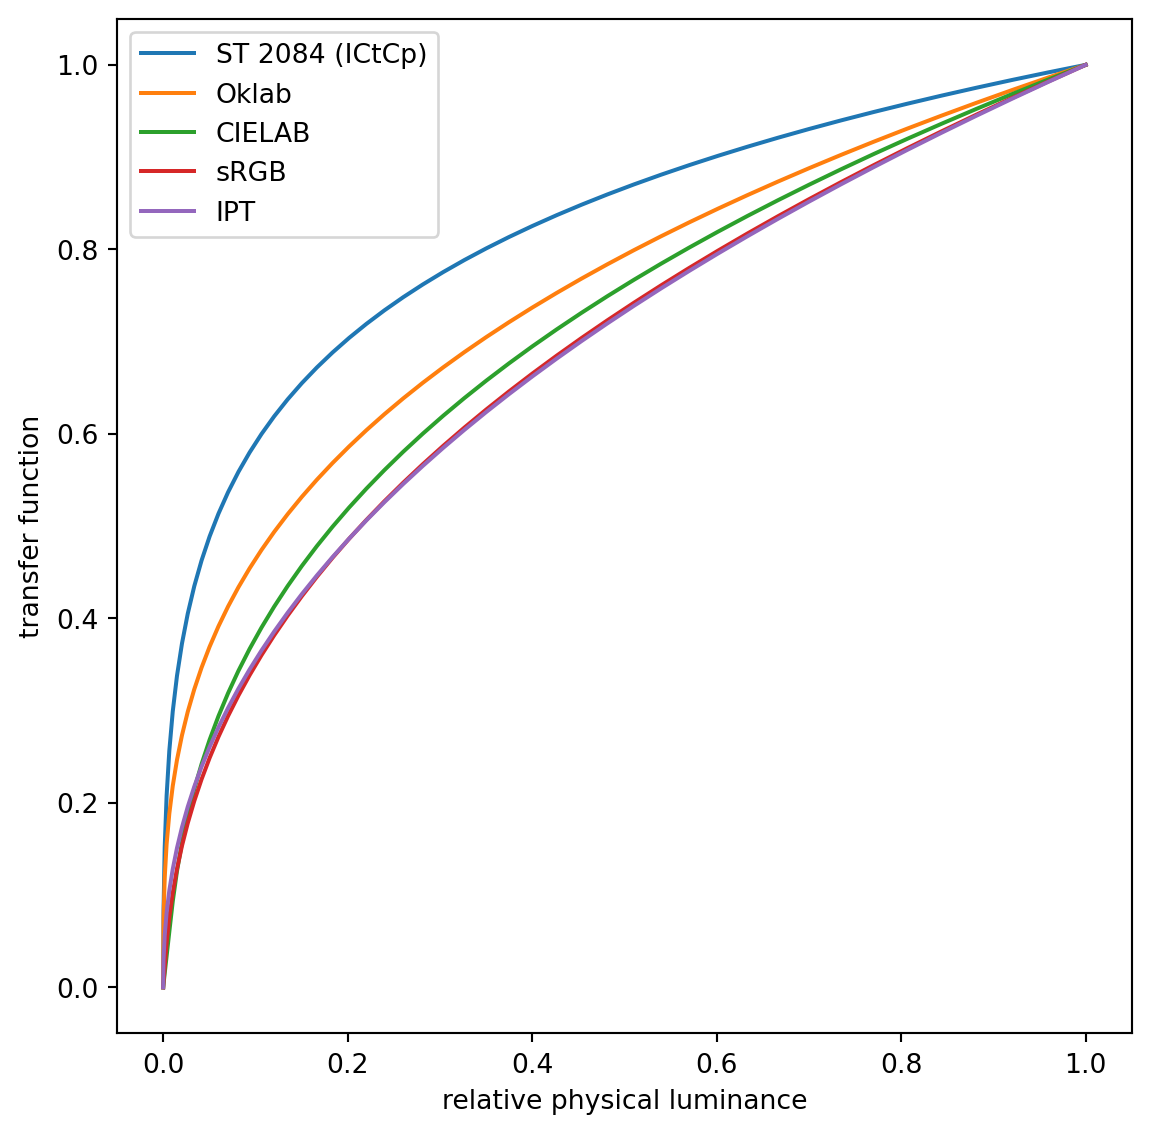
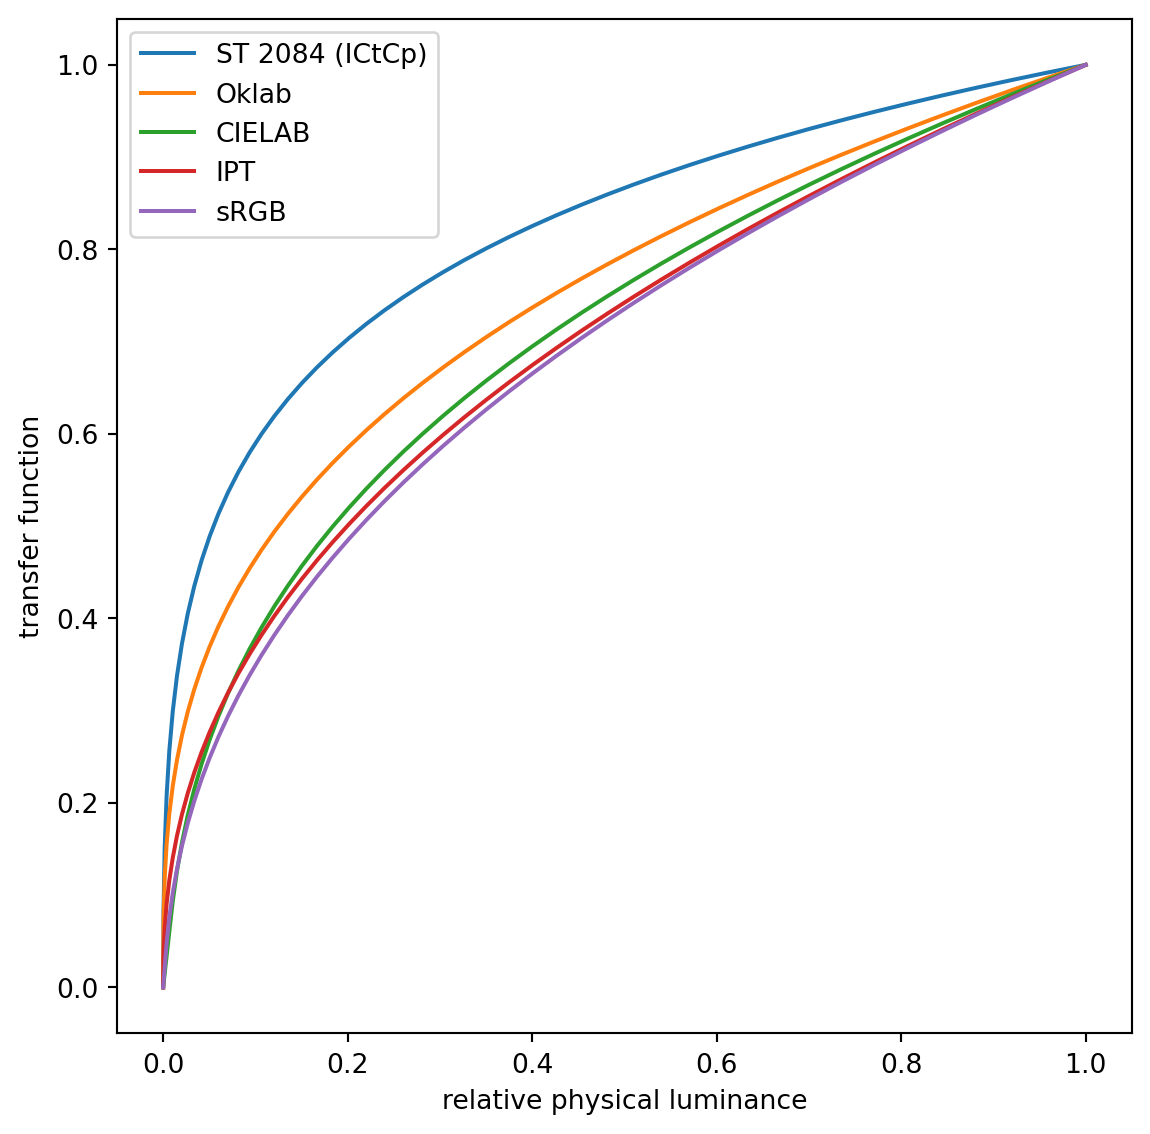
[oklab] Add IPT color space
Add IPT color space, and some minor edits. Update images to be a bit
more accurate.

diff --git a/_posts/2021-01-13-oklab-critique.md b/_posts/2021-01-13-oklab-critique.md
@@ -4,8 +4,6 @@ title:  "Critique of Oklab"
 date:   2021-01-18 14:39:42 -0700
 categories: [color]
 ---
-THIS IS STILL A DRAFT. I'M PUBLISHING IT TO PREVIEW THE INTERACTIVES.
-
 Björn Ottson recenty published a blog post introducing [Oklab]. The blog claimed that Oklab is a better perceptual color space than what came before. It piqued my interest, and I wanted to see for myself.
 
 In exploring perceptual color spaces, I find an interactive gradient tool to be invaluable, so I've reproduced one here:
@@ -62,20 +60,24 @@ In exploring perceptual color spaces, I find an interactive gradient tool to be 
 <div class="gradients">
 
 <div class="gradient">
-<div class="gradname">ICtCp</div>
+<div class="gradname">sRGB</div>
 <div><canvas width="480" height="50" id="c0"></canvas></div>
 </div>
 <div class="gradient">
-<div class="gradname">Oklab</div>
+<div class="gradname">CIELAB</div>
 <div><canvas width="480" height="50" id="c1"></canvas></div>
 </div>
 <div class="gradient">
-<div class="gradname">CIELAB</div>
+<div class="gradname">IPT</div>
 <div><canvas width="480" height="50" id="c2"></canvas></div>
 </div>
 <div class="gradient">
-<div class="gradname">sRGB</div>
+<div class="gradname">Oklab</div>
 <div><canvas width="480" height="50" id="c3"></canvas></div>
+</div>
+<div class="gradient">
+<div class="gradname">ICtCp</div>
+<div><canvas width="480" height="50" id="c4"></canvas></div>
 </div>
 </div>
 
@@ -135,9 +137,11 @@ In exploring perceptual color spaces, I find an interactive gradient tool to be 
 
 ## Why (and when) a perceptual color space?
 
+Most image processing is done using a device color space (most often [sRGB]), and most libraries and interfaces expose that color space. Even when an image editing tool or a standard (such as CSS) exposes other color spaces, it's still most common to use the device color space. But for some use cases, a perceptual color space can give better results.
+
 Basically *the* central question of color theory is how colors (in the physical sense) are perceived. The trichromacy assumption basically groups colors into equivalence classes in a three-dimensional space, and display devices generally produce colors by mixing three additive primaries: the familiar red, green, and blue.
 
-In an idea perceptual color space, the distance of two points in the space would correlate strongly with the *perception* of color difference. Put another way, all pairs separated by a "just noticeable difference" would be separated by an equal distance.
+In an ideal perceptual color space, the distance of two points in the space would correlate strongly with the *perception* of color difference. Put another way, all pairs separated by a "just noticeable difference" would be separated by an equal distance.
 
 As it turns out, such a thing is no more possible than flattening an orange peel, because color perception is inherently [non-euclidean][Non-euclidean structure of spectral color space]. To put it simply, our eyes are more sensitive to small changes in hue than small changes in lightness or color saturation.
 
@@ -406,22 +410,22 @@ function Lab_to_XYZ(lab) {
 const CIELAB = {"to_xyz": Lab_to_XYZ, "from_xyz": XYZ_to_Lab};
 
 // https://professional.dolby.com/siteassets/pdfs/ictcp_dolbywhitepaper_v071.pdf
-const XYZ_TO_LMS = [
+const ICTCP_XYZ_TO_LMS = [
     [ 0.3593,  0.6976, -0.0359],
     [-0.1921,  1.1005,  0.0754],
     [ 0.0071,  0.0748,  0.8433]
 ];
-const LMS_TO_ITP = [
+const ICTCP_LMS_TO_ITP = [
     [ 0.5   ,  0.5   ,  0.0   ],
     [ 1.6138, -3.3235,  1.7097],
     [ 4.3782, -4.2456, -0.1326]
 ];
-const LMS_TO_XYZ = [
+const ICTCP_LMS_TO_XYZ = [
     [ 2.0703, -1.3265,  0.2067],
     [ 0.3647,  0.6806, -0.0453],
     [-0.0498, -0.0492,  1.1881]
 ];
-const ITP_TO_LMS = [
+const ICTCP_ITP_TO_LMS = [
     [ 1.0   ,  0.0086,  0.111 ],
     [ 1.0   , -0.0086, -0.111 ],
     [ 1.0   ,  0.56  , -0.3206]
@@ -450,16 +454,49 @@ function st_2084_eotf(x) {
     return L * L_p / L_display;
 }
 function ICtCp_to_XYZ(lab) {
-    const lms = mat_vec_mul(ITP_TO_LMS, lab);
+    const lms = mat_vec_mul(ICTCP_ITP_TO_LMS, lab);
     const lmslin = lms.map(st_2084_eotf);
-    return mat_vec_mul(LMS_TO_XYZ, lmslin);
+    return mat_vec_mul(ICTCP_LMS_TO_XYZ, lmslin);
 }
 function XYZ_to_ICtCp(xyz) {
-    const lmslin = mat_vec_mul(XYZ_TO_LMS, xyz);
+    const lmslin = mat_vec_mul(ICTCP_XYZ_TO_LMS, xyz);
     const lms = lmslin.map(st_2084_eotf_inv);
-    return mat_vec_mul(LMS_TO_ITP, lms);
+    return mat_vec_mul(ICTCP_LMS_TO_ITP, lms);
 }
 const ICTCP = {"to_xyz": ICtCp_to_XYZ, "from_xyz": XYZ_to_ICtCp};
+
+///
+const IPT_XYZ_TO_LMS = [
+    [0.4002, 0.7075, -0.0807],
+    [-0.2280, 1.1500, 0.0612],
+    [0.0000, 0.0000, 0.9184]
+];
+const IPT_LMS_TO_IPT = [
+    [0.4000, 0.4000, 0.2000],
+    [4.4550, -4.8510, 0.3960],
+    [0.8056, 0.3572, -1.1628],
+];
+const IPT_LMS_TO_XYZ = [
+    [ 1.8502, -1.1383,  0.2384],
+    [ 0.3668,  0.6439, -0.0107],
+    [ 0.0   ,  0.0   ,  1.0889]
+];
+const IPT_IPT_TO_LMS = [
+    [ 1.0   ,  0.0976,  0.2052],
+    [ 1.0   , -0.1139,  0.1332],
+    [ 1.0   ,  0.0326, -0.6769]
+];
+function IPT_to_XYZ(lab) {
+    const lms = mat_vec_mul(IPT_IPT_TO_LMS, lab);
+    const lmslin = lms.map(x => Math.pow(x, 1.0 / 0.43));
+    return mat_vec_mul(IPT_LMS_TO_XYZ, lmslin);
+}
+function XYZ_to_IPT(xyz) {
+    const lmslin = mat_vec_mul(IPT_XYZ_TO_LMS, xyz);
+    const lms = lmslin.map(x => Math.pow(x, 0.43));
+    return mat_vec_mul(IPT_LMS_TO_IPT, lms);
+}
+const IPT = {"to_xyz": IPT_to_XYZ, "from_xyz": XYZ_to_IPT};
 
 function draw_gradient(id, c1, c2, cs, q) {
     const n_steps = Math.round(2.0 / (1 - Math.cbrt(q)));
@@ -500,10 +537,11 @@ function update(e) {
     rgb1 = getrgb(1);
     rgb2 = getrgb(2);
     q = document.getElementById('quant').valueAsNumber;
-    draw_gradient("c0", rgb1, rgb2, ICTCP, q);
-    draw_gradient("c1", rgb1, rgb2, OKLAB, q);
-    draw_gradient("c2", rgb1, rgb2, CIELAB, q);
-    draw_gradient("c3", rgb1, rgb2, SRGB, q);
+    draw_gradient("c0", rgb1, rgb2, SRGB, q);
+    draw_gradient("c1", rgb1, rgb2, CIELAB, q);
+    draw_gradient("c2", rgb1, rgb2, IPT, q);
+    draw_gradient("c3", rgb1, rgb2, OKLAB, q);
+    draw_gradient("c4", rgb1, rgb2, ICTCP, q);
 }
 function setrgb(rgb1, rgb2) {
     for (let i = 0; i < 3; i++) {
